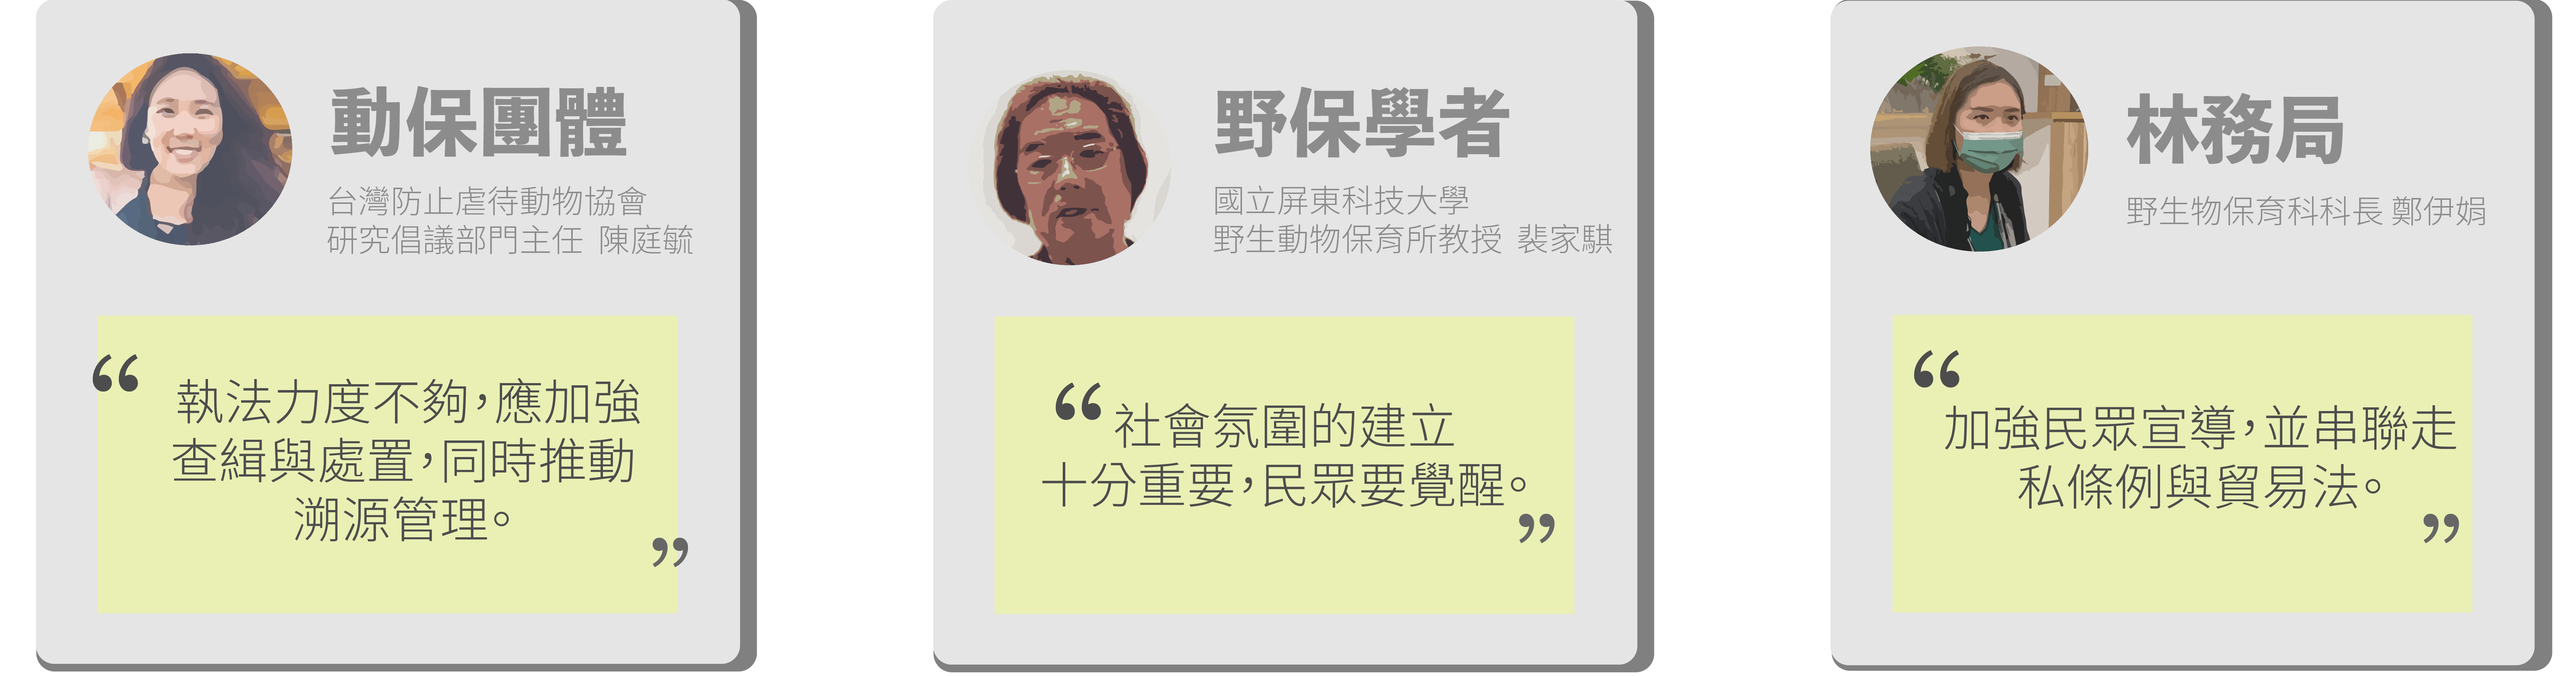
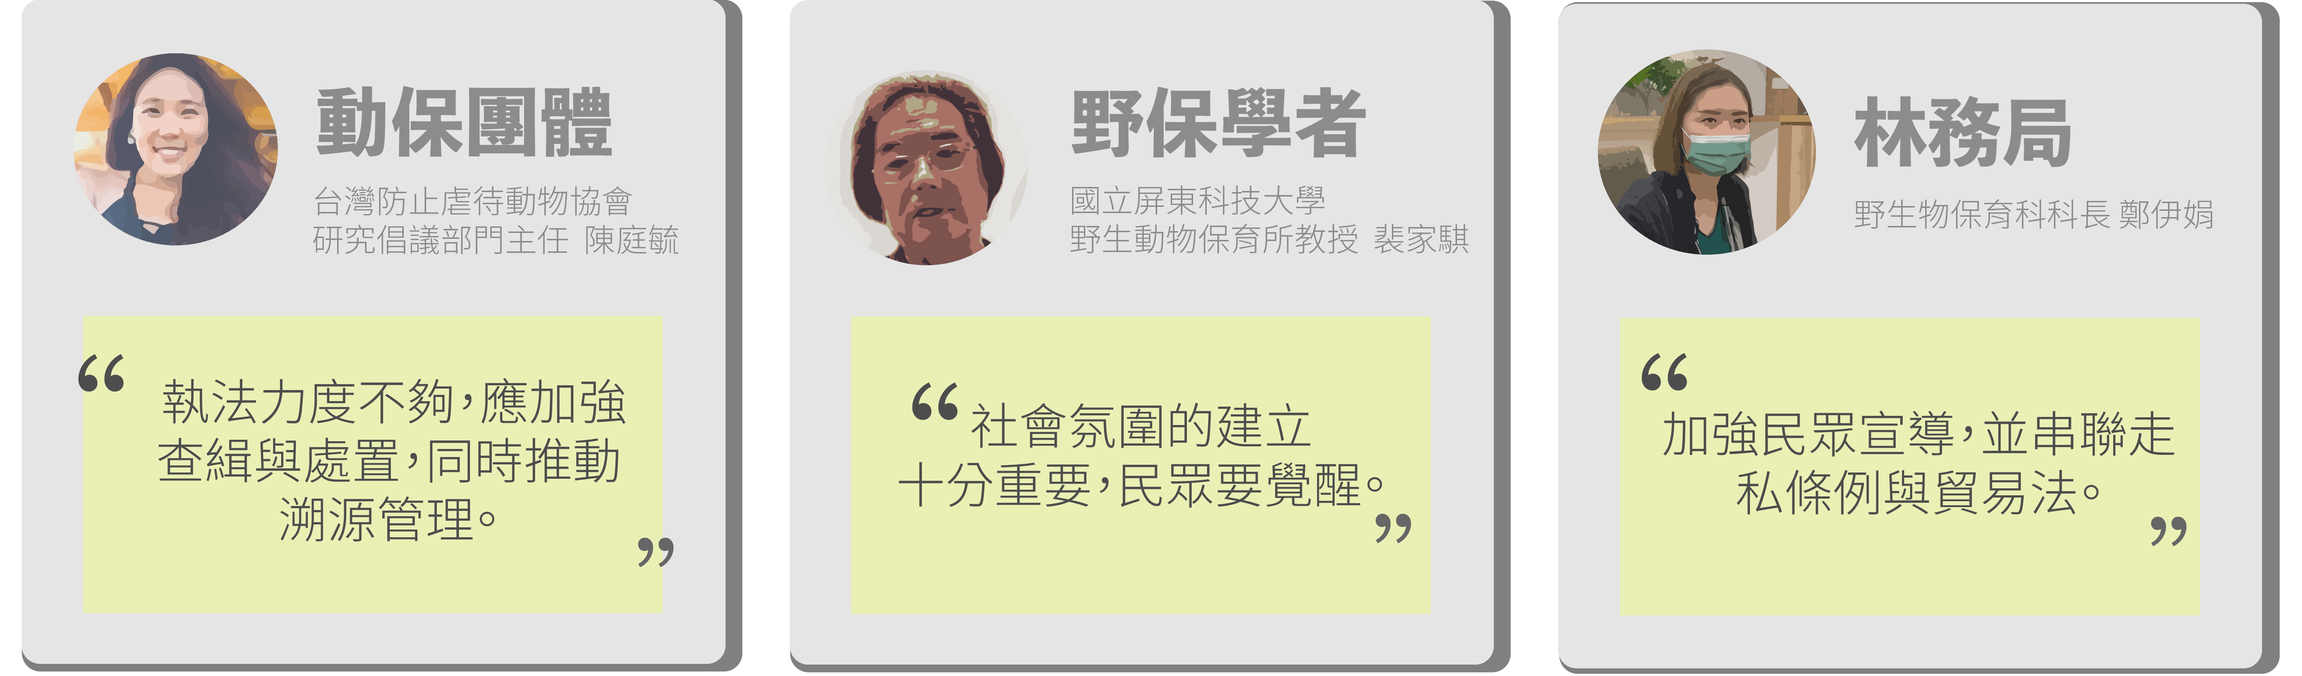
kkkkkkkkkkk

Changed region(s): [[0.0, 0.0, 0.9976, 1.0]]

diff --git a/final-project.html b/final-project.html
@@ -120,12 +120,11 @@
 
 
   <!-- 引言 -->
-  <div class="row" style="height: 70vh;background-color: rgb(0, 0, 0);
-  ">
+  <div class="row" style="height: 70vh;background-color: rgb(0, 0, 0);">
     <div class="col-sm-3">
     </div>
     <div class="col-sm-6">
-      <br>
+      <br><br><br><br><br><br>
       <p>1980至1990年代，台灣掀起一股大型野生保育動物飼養潮，然而這股飼養潮下卻衍生出龐大的利益，同時也關係著野生物種的消長...</p>
       <br>
       <p>從飼養、馴化再到繁殖，人類將一隻隻原本應在自然環境中自由生長的野生動物，視為寵物。從貓狗到大型哺乳動物再到珍奇兩棲爬蟲類與鳥類，很多瀕臨絕種的野生保育動物成為了貿易市場的囊中物。</p>
@@ -176,7 +175,7 @@
     <div class="col-sm-3">
     </div>
     <div class="col-sm-6">
-      <br><br>
+      <br><br><br><br>
       <img src="final-pic/t1.png" style="height: 30px;position: relative;top:-40px;left: 18px;">
       <p style="position: relative;">
         1980至1990年代，在龐大的寵物市場高利潤的誘惑下，台灣曾為東南亞非法野生動物的主要進口國，幼年的紅毛猩猩、長臂猿、馬來熊成為台灣寵物市場上最受歡迎的物種。大型野生保育動物的進口貿易在這時大幅增長，而這些哺乳動物的幼仔也在寵物市場上價格走俏。
@@ -240,13 +239,13 @@
   </div>
 
   <!-- 動物現況 -->
-  <div style="height: 50vh;background-color: black;">
+  <div style="height: 60vh;background-color: black;">
     <img src="final-pic/real.png" style="height: 900px;width: 100vw;">
   </div>
 
   <!-- 野保法出現轉折 -->
   <div id="law" style="height: 80vh;width: 100vw;background-color: black;">
-    <img src="final-pic/word.png" style="height: 300px;width: 920px;position: relative;left: 280px;top:200px">
+    <img src="final-pic/word.png" style="height: 300px;width: 1000px;position: relative;left: 280px;top:300px">
   </div>
 
 
@@ -258,7 +257,7 @@
   </div>
 
   <!-- 銜接文字 -->
-  <div class="row" style="height:65vh;background-color: rgb(0, 0, 0);">
+  <div class="row" style="height:80vh;background-color: rgb(0, 0, 0);">
     <div class="col-sm-3">
     </div>
     <div class="col-sm-6">
@@ -308,6 +307,7 @@
     </div>
   </div>
 
+  <div style="height: 10vh;background-color: black;"></div>
 
   <!-- 銜接文字 -->
   <div class="row" style="height: 30vh;background-color: rgb(0, 0, 0);">
@@ -330,7 +330,7 @@
     <div class="col-sm-1">
     </div>
     <div class="col-sm-10" style="top:-100px;left: 60px;">
-      <img src="final-pic/cardall.png" style="height: 400px;width: 1300px;float: left;position: relative;top:150px;left: -120px;">
+      <img src="final-pic/cardall.png" style="height: 400px;width: 1300px;float: left;position: relative;top:150px;left: -100px;">
     </div>
     <div class="col-sm-1">
     </div>
